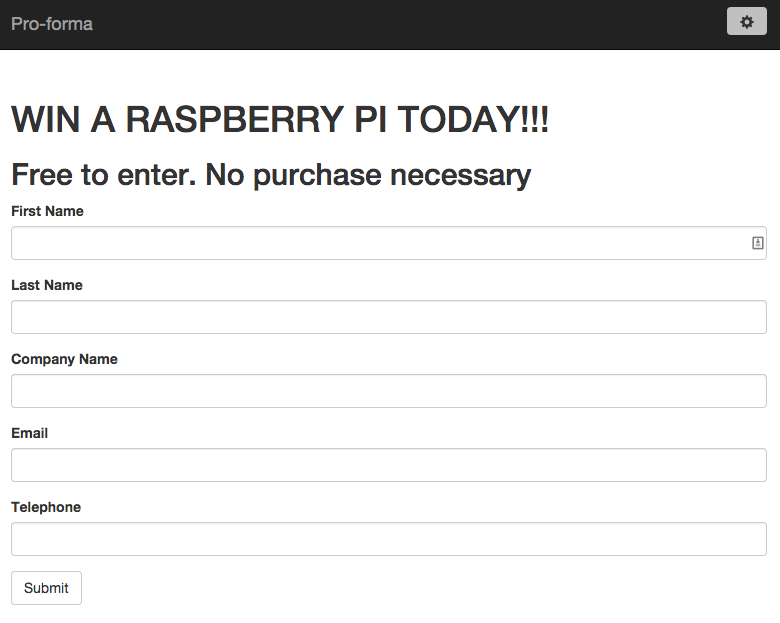
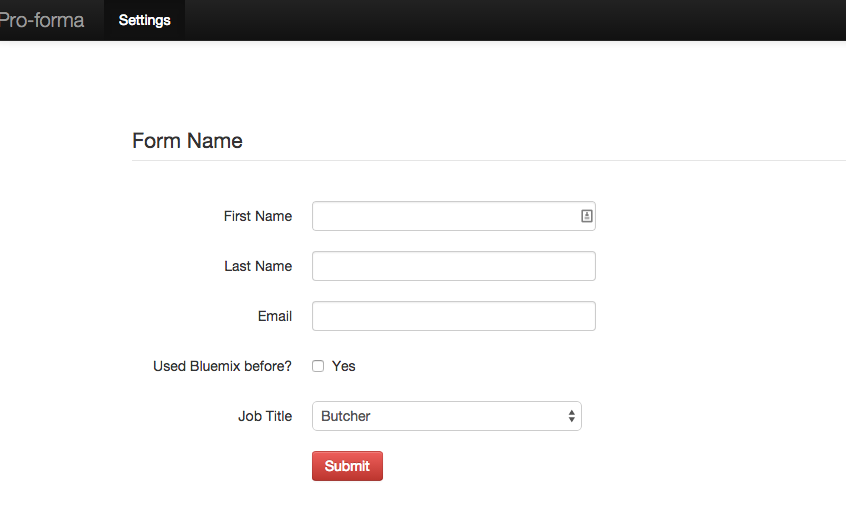
docs update

diff --git a/README.md b/README.md
@@ -5,19 +5,18 @@ to store the data inside the web browser.
 
 ## Demo
 
-Visit (http://glynnbird.github.io/proforma) to see it in action.
+Visit (http://proforma.mybluemix.net/) to see it in action.
 
 ## Instructions
 
-When you first load Proforma, you are asked to define the title, subtitle and fields of your form e.g.
-
-* title - WIN A RASPBERRY PI TODAY!!!
-* subtitle - Free to enter. No purchase necessary.
-* fields - First Name,Last Name,Company Name,Email,Telephone 
+When you first load Proforma, you are asked to define the fields of the form. This is acheived by dragging and dropping
+fields from the palette on the right onto a form template on the left:
 
 ![settings](https://github.com/glynnbird/proforma/raw/master/img/proforma_settings1.png "settings")
 
-Once submitted, the configuration page disappears revealing the form you have created:
+Each of the form elements can be clicked on to define the name, placeholder, label etc. Don't forget to configure the form name itself.
+
+Once saved, the configuration page disappears revealing the form you have created:
 
 ![form](https://github.com/glynnbird/proforma/raw/master/img/proforma_form.png "form")
 
